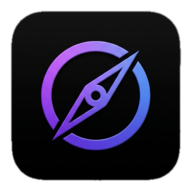
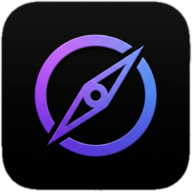
perfect image PWA

diff --git a/DOCUMENTATION.md b/DOCUMENTATION.md
@@ -205,7 +205,7 @@ Implemented PWA capabilities to allow the application to be installed as a stand
 ## Changes
 1.  **Icon Generation**:
     -   Generated standard PWA icons (192x192, 512x512) and Apple Touch Icon from source image.
-    -   **Optimization**: Applied automatic center-cropping and trimming to maximize the logo size (90% fill factor) within the icon square.
+    -   **Optimization**: Applied aggressive trimming to remove all transparent borders, scaling the logo to **100% fill** of the icon container.
     -   Replaced standard favicon with generated 64x64 PNG.
 
 2.  **Manifest**:
